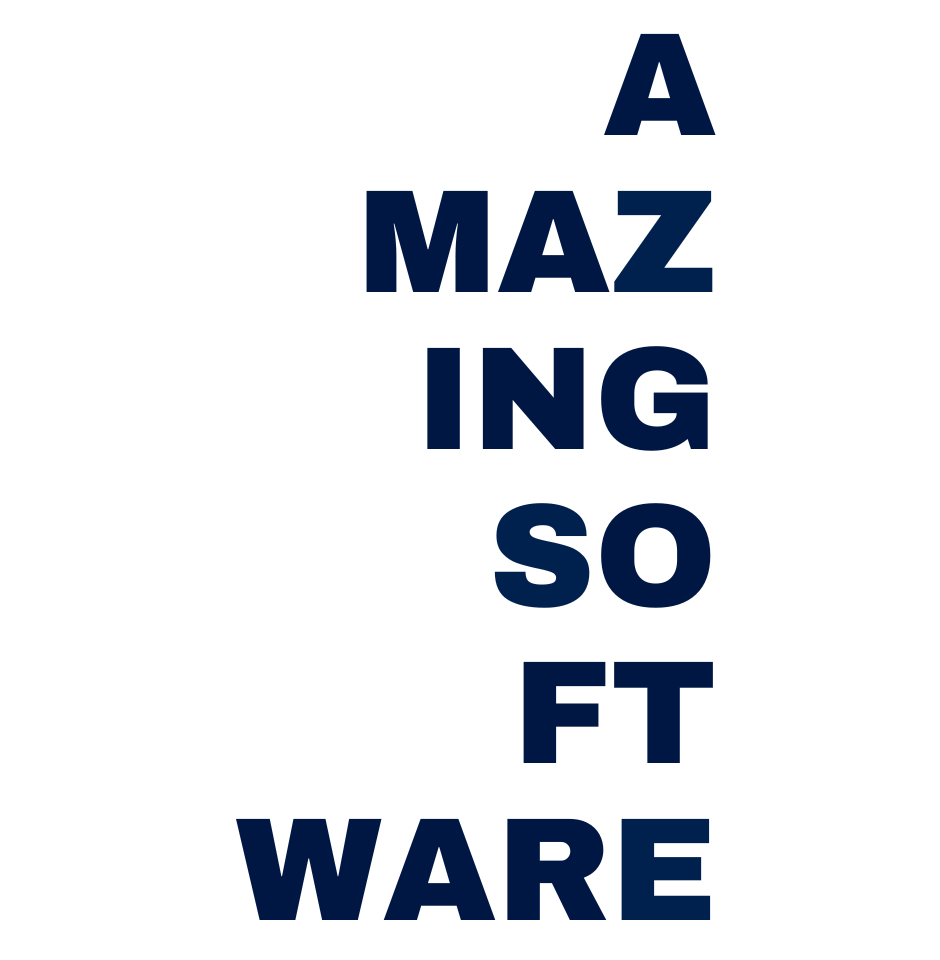
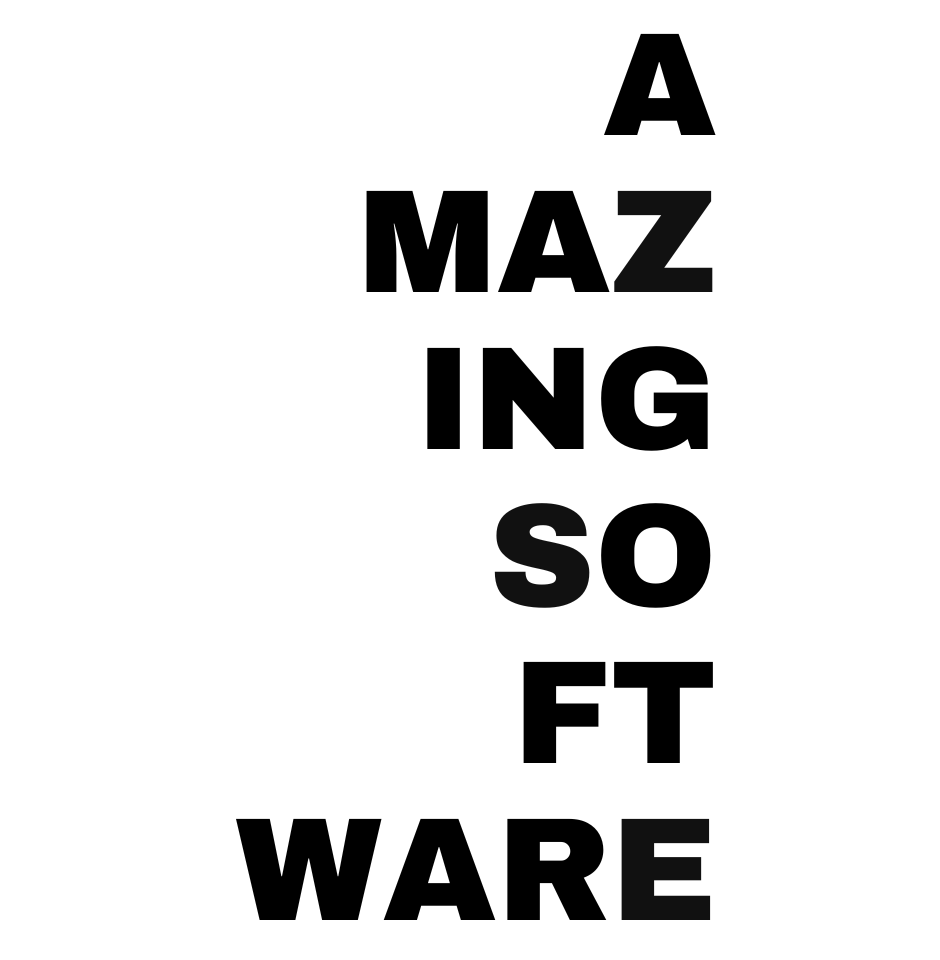
actualización del hero y el modo dark

diff --git a/css/style.css b/css/style.css
@@ -6,25 +6,29 @@
 
 /*ligth mode*/
 :root {
-    --main-bg-color-light: rgb(225, 37, 27);
-    --second-bg-color-ligth: rgb(255, 251, 244);
-    --btn-color-ligth: rgb(0, 27, 72);
-    --txt-tilte: rgb(255, 255, 255);
-    --txt-color: rgb(220, 220, 220);
+    --color-main: rgb(225, 37, 27);
+    --color-2: rgb(0, 27, 72);
+    --color-3: rgb(255, 251, 244);
+    --color-4: rgb(255, 255, 255);
+    --color-5: rgb(220, 220, 220);
+
+    --btn-color: rgb(0, 27, 72);
+    --btn-h: rgb(226, 53, 44);
     --bg-img: url("../img/hero1.png");
+    --icon: url("../img/moon.png");
 }
 
 
 
 /* Dark mode*/
 .oscuro {
-    --main-bg-color-light: rgb(0, 27, 72);
-    --second-bg-color-ligth: rgb(255, 251, 244);
-    --btn-color-ligth: rgb(225, 37, 27);
+    --color-main: rgb(6, 6, 6);
+    --color-2: rgb(225, 37, 27);
+
+    --btn-color:rgb(25, 25, 25);
+    --btn-h:  rgb(225, 37, 27);
     --bg-img: url("../img/hero2.png");
 }
-
-
 
 
 
@@ -41,27 +45,34 @@ header {
 }
 
 .navbar-collapse {
-    background-color: transparent !important;
+    background-color: var(--color-main);
+}
+
+.navbar-nav a {
+    text-align: center;
 }
 
 .nav-bg-color {
     background-color: transparent !important;
 }
 
+
+
 .txt-color {
-    color: var(--second-bg-color-ligth) !important;
+    color: var(--color-5) !important;
+    font-size: 30px !important
 }
 
 .nav-link {
     padding: 0 0 5px 0 !important;
-    color: var(--txt-color) !important;
+    color: var(--color-5) !important;
     border-bottom: 2px solid transparent;
     transition: 0.4s !important;
 }
 
 .nav-link:hover {
-    color: var(--txt-tilte) !important;
-    border-bottom-color: var(--txt-tilte);
+    color: var(--color-4) !important;
+    border-bottom-color: var(--color-4);
 }
 
 
@@ -76,7 +87,7 @@ header {
     background-repeat: no-repeat;
     background-position: center center;
     background-size: 100vh;
-    background-color: var(--main-bg-color-light);
+    background-color: var(--color-main);
     display: flex;
     justify-content: center;
     align-items: center;
@@ -101,15 +112,15 @@ header {
 .txt-title {
     font-family: 'Poppins', Georgia, 'Times New Roman', Times, serif;
     text-align: center;
-    color: var(--txt-tilte);
+    color: var(--color-4);
 }
 
 .txt-title span {
-    color: var(--btn-color-ligth);
+    color: var(--color-2);
 }
 
 .txt-p {
-    color: var(--second-bg-color-ligth);
+    color: var(--color-5);
     font-family: Verdana, Geneva, Tahoma, sans-serif;
     text-align: center;
     line-height: 15px;
@@ -130,14 +141,18 @@ header {
     font-size: 10px;
     font-weight: 500;
     cursor: pointer;
-    background-color: var(--btn-color-ligth);
-    color: var(--second-bg-color-ligth);
-    border: 3px solid transparent;
+    background-color: var(--btn-color);
+    color: var(--color-5);
+    border: 2px solid transparent;
     transition: .3s;
 }
 
+.btn-hero:hover {
+    background-color: var(--btn-h);
+}
+
 .btn-hero:active {
-    border-color: var(--second-bg-color-ligth);
+    border-color: var(--color-5);
 }
 
 .img-hero {
@@ -145,14 +160,15 @@ header {
 }
 
 .btn-mode {
-    width: 24px;
+    padding: 3px;
     border-radius: 50%;
-    background-color: var(--btn-color-ligth);
+    background-color: var(--color-2);
 }
 
 .moon {
+    display: block;
     width: 18px;
-    margin: 3px;
+    margin: auto;
 }
 
 
@@ -165,13 +181,18 @@ header {
     /* 
  *       Section of header
  */
+
+    .navbar-collapse {
+        background-color: transparent !important;
+    }
+
     .menu-content {
         max-width: 1000px;
         margin: auto;
     }
 
     .txt-color {
-        font-size: 13px !important;
+        font-size: 15px !important;
     }
 
     /*
@@ -196,7 +217,7 @@ header {
         text-align: start;
         font-size: 19px;
         line-height: 19px;
-        color: var(--txt-color);
+        color: var(--color-5);
     }
 
     .btn-container {

diff --git a/Index.html b/Index.html
@@ -16,7 +16,7 @@
 
 <body>
   <header class="fixed-top">
-    <nav class="navbar navbar-expand-lg menu-content nav-bg-color">
+    <nav class="navbar navbar-expand-lg navbar-dark menu-content nav-bg-color">
       <div class="container-fluid">
         <a class="navbar-brand txt-color fs-4" href="#">Treming</a>
         <button class="navbar-toggler" type="button" data-bs-toggle="collapse" data-bs-target="#navbarNavDropdown"
@@ -26,25 +26,25 @@
         <div class="collapse navbar-collapse justify-content-end" id="navbarNavDropdown">
           <ul class="navbar-nav">
             <li class="nav-item">
-              <a class="nav-link txt-color hover-item me-4 mt-2" aria-current="page" href="#">Services</a>
+              <a class="nav-link txt-color hover-item ms-2 me-2 mt-2" href="#">Services</a>
             </li>
             <li class="nav-item">
-              <a class="nav-link txt-color hover-item me-4 mt-2" href="#">Work</a>
+              <a class="nav-link txt-color hover-item ms-2 me-2 mt-2" href="#">Work</a>
             </li>
             <li class="nav-item">
-              <a class="nav-link txt-color hover-item me-4 mt-2" href="#">Culture</a>
+              <a class="nav-link txt-color hover-item ms-2 me-2 mt-2" href="#">Culture</a>
             </li>
             <li class="nav-item">
-              <a class="nav-link txt-color hover-item me-4 mt-2" href="#">Testimonials</a>
+              <a class="nav-link txt-color hover-item ms-2 me-2 mt-2" href="#">Testimonials</a>
             </li>
             <li class="nav-item">
-              <a class="nav-link txt-color hover-item me-4 mt-2" href="#">Blog</a>
+              <a class="nav-link txt-color hover-item ms-2 me-2 mt-2" href="#">Blog</a>
             </li>
             <li class="nav-item">
-              <a class="nav-link txt-color hover-item me-4 mt-2" href="#">Jobs</a>
+              <a class="nav-link txt-color hover-item ms-2 me-2 mt-2" href="#">Jobs</a>
             </li>
             <li class="nav-item">
-              <a class="nav-link txt-color hover-item mt-2" href="#">Contact</a>
+              <a class="nav-link txt-color hover-item ms-2 me-2 mt-2" href="#">Contact</a>
             </li>
             <!--<li class="nav-item dropdown">
               <a class="nav-link dropdown-toggle text-white" href="#" role="button" data-bs-toggle="dropdown"
@@ -79,9 +79,10 @@
       </div>
     </div>
     <div type="button" class="btn-mode position-absolute top-50 end-0 translate-middle-y" onclick="cambiarModo()">
-      <img src="img/moon.png" alt="" class="moon">
+      <img src="img/moon.png" alt="icon-mode" class="moon">
     </div>
   </section>
+
 
   <!-- SECCION SERVICES-->
  
